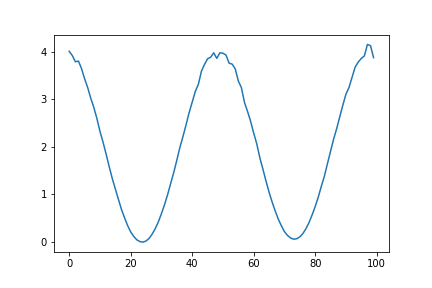
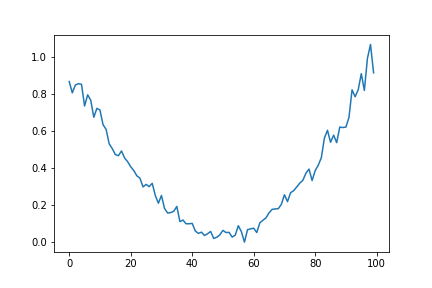
added wells

diff --git a/test_system_generator.py b/test_system_generator.py
@@ -36,7 +36,11 @@ class simulation:
 
 def potential(pot_type,num_of_states):
 
-    if pot_type.lower() == 'double_well':
+    if pot_type.lower() == 'single_well':
+        x = np.linspace(-np.pi, np.pi, num_of_states)
+        y = -np.sin(0.5*x + 0.5*np.pi)
+
+    elif pot_type.lower() == 'double_well':
         x = np.linspace(-np.pi, np.pi, num_of_states)
         y = np.sin(2*(x - 3*np.pi / 4))
 
@@ -44,8 +48,15 @@ def potential(pot_type,num_of_states):
         x = np.linspace(-np.pi, np.pi, num_of_states)
         y = np.sin(3*(x - 7*np.pi / 2))
 
+    elif pot_type.lower() == 'flat':
+        x = np.linspace(-np.pi, np.pi, num_of_states)
+        y = 0*x
+
+
     else:
         raise ValueError('invalid input potential type')
+
+    y = y-np.min(y)
 
     return x, y
 
@@ -59,8 +70,8 @@ def trajectory(x, y, sim_length, biasing_protocol, T):
 
     K = np.zeros([len(x),len(x)])
     for i in range(len(x)-1):
-        K[i,i+1] = A* np.exp(-(y[i+1]-y[i])/KbT)
-        K[i+1, i] = A * np.exp(-(y[i] - y[i+1]) / KbT)
+        K[i,i+1] = A* np.exp(-(y[i+1]-y[i])/KbT/2)
+        K[i+1, i] = A * np.exp(-(y[i] - y[i+1]) / KbT/2)
 
     for i in range(len(x)):
         K[i, i] = -np.sum(K[i,:])
@@ -69,9 +80,10 @@ def trajectory(x, y, sim_length, biasing_protocol, T):
     mm = expm(K*dt)
 
     # next we want to run a simulation of the Markov model produced above
-    traj = [np.random.random_integers(1, len(x))]
+    traj = [np.random.random_integers(0, len(x)-1)]
     count = 0
 
+    #ipdb.set_trace()
     while count < (sim_length-1):
         rand = np.random.uniform(0, 1)
         for j in range(len(x)):
